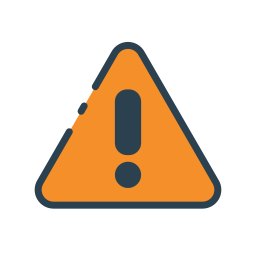
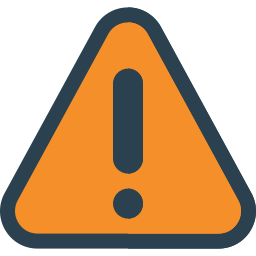
Update accueil and navbar
Accueil html, modification de l'icone de danger, ajout d'un ngIf quand il n'y a pas de vulne/nourrissage pour que ça cange le text du boutton et sa redirection mais on peut aussi juste enlever le button
NAVBAR : Modification pour que l'icône redirige aussi vers la page concernée, sauf pour Gestion des utilisateur l'icône fait dérouler le menu
Changement des certaines icones pour qu'elles aient la même résolution que les autres icones
Le logo en en haut à gauche qui renvoie vers l'accueil

diff --git a/LaRucheFront/src/app/navbar/navbar.component.html b/LaRucheFront/src/app/navbar/navbar.component.html
@@ -12,7 +12,9 @@
   
   
           <div class="logo-container">
-            <img id="logo" src="assets/navbar/logo-ss.png" alt="logo">
+            <a [routerLink]="['unbeelievable']" routerLinkActive="active">
+              <img id="logo" src="assets/navbar/logo-ss.png" alt="logo">
+            </a>
           </div>
   
   
@@ -24,59 +26,62 @@
             <ul>
            <div class="nav-element" (mouseenter)="sourisA=true" (mouseleave)="sourisA=false">
               <li class="linkAccueil">
+                <a [routerLink]="['unbeelievable']" routerLinkActive="active" class="alignIconeWithText">
                 <img src="assets/navbar/home-b.png" alt="logo" class="iconesMenu" *ngIf="sourisA==false">
                 <img src="assets/navbar/home-o.png" alt="logo" class="iconesMenu" *ngIf="sourisA==true">
-                <a [routerLink]="['unbeelievable']" routerLinkActive="active" class="alignIconeWithText">Accueil</a>
+                Accueil</a>
               </li>
             </div>
   
             <div class="nav-element" (mouseenter)="sourisB=true" (mouseleave)="sourisB=false">
               <li class="linkCompte">
+                <a [routerLink]="['unbeelievable/utilisateurs/mon-utilisateur/'+idConnected]" routerLinkActive="active" class="alignIconeWithText">
                 <img src="assets/navbar/compte-b.png" alt="logo" class="iconesMenu" *ngIf="sourisB==false">
                 <img src="assets/navbar/compte-o.png" alt="logo" class="iconesMenu" *ngIf="sourisB==true">
-                <a [routerLink]="['unbeelievable/utilisateurs/mon-utilisateur/'+idConnected]" routerLinkActive="active" class="alignIconeWithText">Mon compte</a>
+                Mon compte</a>
               </li>
             </div>
 
             <div class="nav-element" (mouseenter)="sourisC=true" (mouseleave)="sourisC=false">
               <li class="linkCompte">
+                <a [routerLink]="['unbeelievable/ruche']" routerLinkActive="active" class="alignIconeWithText">
                 <img src="assets/navbar/ruche-b.png" alt="logo" class="iconesMenu" *ngIf="sourisC==false">
                 <img src="assets/navbar/ruche-o.png" alt="logo" class="iconesMenu" *ngIf="sourisC==true">
-                <a [routerLink]="['unbeelievable/ruche']" routerLinkActive="active" class="alignIconeWithText">Mes Ruches</a>
+                Mes Ruches</a>
               </li>
             </div>  
          
             <div class="nav-element" (mouseenter)="sourisD=true" (mouseleave)="sourisD=false">
               <li class="linkRecoltes">
+                <a [routerLink]="['unbeelievable/production']" routerLinkActive="active" class="alignIconeWithText">
                 <img src="assets/navbar/miel-b.png" alt="logo" class="iconesMenu" *ngIf="sourisD==false">
                 <img src="assets/navbar/miel-o.png" alt="logo" class="iconesMenu" *ngIf="sourisD==true">
-                <a [routerLink]="['unbeelievable/production']" routerLinkActive="active" class="alignIconeWithText">Mes récoltes</a>
+                Mes récoltes</a>
               </li>
             </div>
   
             <div *ngIf="allowed()" class="nav-element" (mouseenter)="sourisE=true" (mouseleave)="sourisE=false">
               <li class="linkUtilisateurs">
-  
                 <ul class="accordion">
-  
                   <li class="has-sub">
-                    <img src="assets/navbar/api-b.png" alt="logo" class="iconesMenu" *ngIf="sourisE==false">
-                    <img src="assets/navbar/api-o.png" alt="logo" class="iconesMenu" *ngIf="sourisE==true">
+                    <img src="assets/navbar/api-b.png" alt="logo" class="iconesMenu" *ngIf="sourisE==false" (click)="menu2.checked = !menu2.checked">
+                    <img src="assets/navbar/api-o.png" alt="logo" class="iconesMenu" *ngIf="sourisE==true" (click)="menu2.checked = !menu2.checked">
                     <label for="menu2" class="alignIconeWithText">Gestion des utilisateurs &#x25BE;</label>
-                    <input id="menu2" type="checkbox" />
+                    <input id="menu2" type="checkbox" #menu2 />
                     <ul class="sub">
                       <li class="sousMenus"><a [routerLink]="['unbeelievable/utilisateurs/recolteurs']" routerLinkActive="active">Récolteurs</a></li>
                       <li class="sousMenus"><a [routerLink]="['unbeelievable/utilisateurs/clients']" routerLinkActive="active">Clients</a></li>
                     </ul>
-                    </li>
-                  </ul>
-                </li>
-  </div>
+                  </li>
+                </ul>
+              </li>
+            </div>
   <div class="nav-element" (mouseenter)="sourisF=true" (mouseleave)="sourisF=false">  
                 <li class="linkDeco">
+                  <a (click)="deconnexion()" [routerLink]="['connexion']" routerLinkActive="active" class="alignIconeWithText">
                   <img src="assets/navbar/bee-b.png" alt="logo" class="iconesMenu" *ngIf="sourisF==false">
                   <img src="assets/navbar/bee-o.png" alt="logo" class="iconesMenu" *ngIf="sourisF==true">
-                  <a (click)="deconnexion()" [routerLink]="['connexion']" routerLinkActive="active" class="alignIconeWithText">Déconnexion</a>
+                  Déconnexion</a>
                 </li>
               </div>
               </ul>

diff --git a/LaRucheFront/src/app/accueil/accueil.component.html b/LaRucheFront/src/app/accueil/accueil.component.html
@@ -12,22 +12,25 @@
 					<div class="top">
 						<div class="left">
 							<ng-container *ngIf="listRucheVulnerabilite.length > 0; else noVulnerabilite">
-							  <p>
-								<img src="/assets/home_gestionnaire/icone-danger.png" class="icon">
+							  <p><img src="/assets/home_gestionnaire/icone-danger.png" class="icon">
 								Vous avez {{listRucheVulnerabilite.length}} 
 								<ng-container *ngIf="listRucheVulnerabilite.length === 1">vulnérabilité</ng-container>
 								<ng-container *ngIf="listRucheVulnerabilite.length > 1">vulnérabilités</ng-container>
-								en cours
-							  </p>
+								en cours</p>
 							</ng-container>
 							<ng-template #noVulnerabilite>
-							  <p>Aucune vulnérabilité</p>
+							  <p>Aucune ruche avec une vulnérabilité</p>
 							</ng-template>
 						  </div>
 
 
 						<div class="right">
+							<ng-container *ngIf="listRucheVulnerabilite.length > 0; else noVulnerabiliteButton">
 							<button (click)="goToRucheVulnerables()">Voir mes vulnérabilités</button>
+							</ng-container>
+							<ng-template #noVulnerabiliteButton>
+								<button (click)="goToRuche()">Voir mes ruches</button>
+							</ng-template>
 						</div>
 					</div>
 					
@@ -46,10 +49,15 @@
 						</div>
 
 						<div class="right">
-							<button (click)="goToRucheN()">Voir 
-								<ng-container *ngIf="listRucheNourissage.length === 1">ma ruche</ng-container>
+							<ng-container *ngIf="listRucheNourissage.length > 0; else noNourissageButton">
+								<button (click)="goToRucheN()">Voir 
+									<ng-container *ngIf="listRucheNourissage.length === 1">ma ruche</ng-container>
 									<ng-container *ngIf="listRucheNourissage.length > 1">mes ruches</ng-container>
 									à nourrir</button>
+							</ng-container>
+							<ng-template #noNourissageButton>
+								<button (click)="goToRuche()">Voir mes ruches</button>
+							</ng-template>
 						</div>
 					</div>	
 
@@ -87,7 +95,7 @@
 		<div class="home_button_bot">
 
 			<div class="box-container">
-				<a (click)="goToRucheN()" class="img_box">
+				<a (click)="goToRuche()" class="img_box">
 					<img src="/assets/home_gestionnaire/miel-b.png">
 				</a>
 				<button (click)="goToRuche()" id="button_bot">Voir mes ruches</button>
@@ -100,8 +108,8 @@
 				<button (click)="goToProduction()" id="button_bot">Voir mes productions</button>
 
 			</div>
-
-			<div class="box-container">
+			
+			<div *ngIf="allowed()" class="box-container">
 				<a (click)="goToUsers()" class="img_box">
 
 					<img src="/assets/home_gestionnaire/apiculteur-b.png">

diff --git a/LaRucheFront/src/app/Ruches/liste-ruches/liste-ruches.component.ts b/LaRucheFront/src/app/Ruches/liste-ruches/liste-ruches.component.ts
@@ -44,8 +44,6 @@ export class ListeRuchesComponent {
       });
       return listRuches;
     } else if (this.tri == 'nourrissage') {
-      console.log('coucou')
-        console.log(this.listRucheNourissage.length)
         return this.accueilService.findRucheByNourissageBis()
     }
     return this.listeRuchesService.findAll();

diff --git a/LaRucheFront/src/app/accueil/accueil.component.scss b/LaRucheFront/src/app/accueil/accueil.component.scss
@@ -46,8 +46,8 @@ main {
   flex-grow: 1;
 }
 .message_content .left .icon {
-  width: 50px;
-  height: 50px;
+  width: 30px;
+  height: 30px;
 }
 
 .message_content .top,

diff --git a/LaRucheFront/src/app/accueil/accueil-http.service.ts b/LaRucheFront/src/app/accueil/accueil-http.service.ts
@@ -51,4 +51,5 @@ export class AccueilHttpService {
         this.listRucheNourissage = resp;
       });
   }
+
 }
